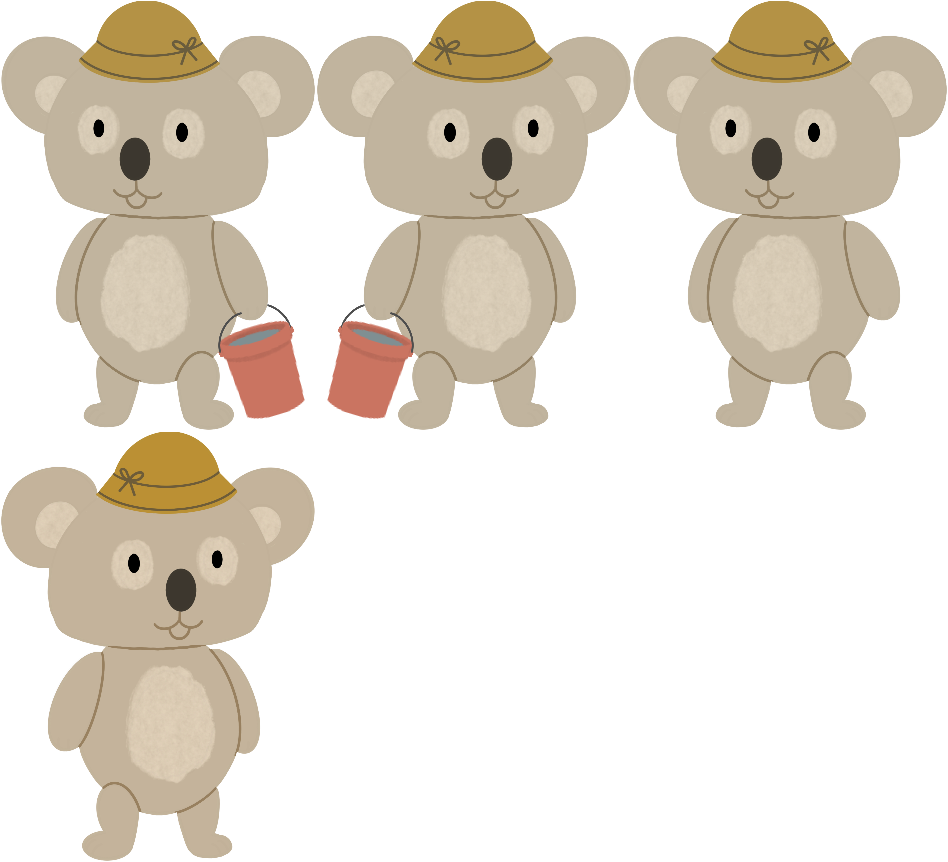
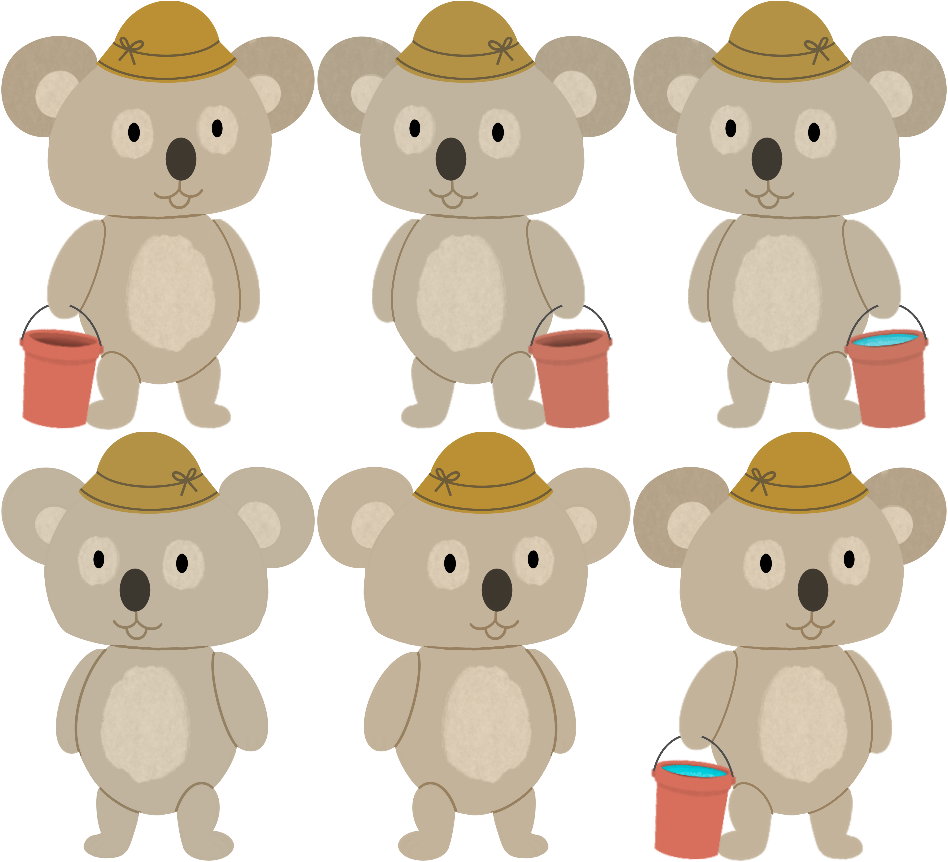
fixed char movement

diff --git a/components/player.js b/components/player.js
@@ -20,28 +20,16 @@ Crafty.c("Player", {
 		this.onHit("Bucket", function(collectBucket) {
 			collectBucket[0].obj.destroy();
 			var raindropSpawner = Crafty.e("RaindropSpawner");
-
-			var cloudController = Crafty.e("CloudController");
-			if (facing == "right") {
-				this.addComponent("bear_bucket_right");
-				this.removeComponent("bear_right");
-				this.w = 314 / 5;
-		        this.h = 429 / 5;
-			}
-			else if (facing == "left") {
-				this.addComponent("bear_bucket_left");
-				this.removeComponent("bear_left");
-				this.w = 314 / 5;
-		        this.h = 429 / 5;
-			}
 			hasBucket = true;
+			this.charImg();
 			Crafty.trigger("collectBucket");
 		});
 
 		this.onHit("Poo", function(collectPoo) {
 			collectPoo[0].obj.destroy();
-			Crafty.trigger("collectPoo");
 			inBucket.poo += 1;
+			this.charImg();
+			Crafty.trigger("collectPoo");
 		});
 
 		this.bind("CheckLanding", function(ground) {
@@ -53,32 +41,10 @@ Crafty.c("Player", {
 		this.bind("KeyDown", function(arrow) {
 				if (arrow.key == Crafty.keys.LEFT_ARROW) {
 					facing = "left";
-					if (hasBucket == true) {
-						this.addComponent("bear_bucket_left");
-						this.removeComponent("bear_bucket_right");
-						this.w = 314 / 5;
-						this.h = 429 / 5;
-					}
-					else {
-						this.addComponent("bear_left");
-						this.removeComponent("bear_right");
-						this.w = 314 / 5;
-						this.h = 429 / 5;
-					}
+					this.charImg();
 				} else if (arrow.key == Crafty.keys.RIGHT_ARROW) {
 					facing = "right";
-					if (hasBucket == true) {
-						this.addComponent("bear_bucket_right");
-						this.removeComponent("bear_bucket_left");
-						this.w = 314 / 5;
-						this.h = 429 / 5;
-					}
-					else {
-						this.addComponent("bear_right");
-						this.removeComponent("bear_left");
-						this.w = 314 / 5;
-						this.h = 429 / 5;
-					}
+					this.charImg();
 				}
 			});
 		this.bind("KeyDown", function(debugPlayer) {
@@ -92,12 +58,14 @@ Crafty.c("Player", {
 		this.onHit("Tree", function(emptyBucket) {;
 			if (inBucket.water > 0 || inBucket.poo > 0) {
 				Crafty.trigger("emptyBucket");
+				this.charImg();
 				healing_strength = DEFAULT_HEALING_STR; // RESET healing strength
 			}
 		});
 
 		this.onHit("Raindrop", function(collectWater) {
 			inBucket.water += 1;
+			this.charImg();
 			collectWater[0].obj.destroy();
 		})
     },
@@ -106,5 +74,51 @@ Crafty.c("Player", {
         this.x = x;
         this.y = y;
         return this;
-    }
+    },
+
+	charImg: function() {
+		//code controlling the char Sprite state
+		this.removeComponent("bear_bucket_right");
+		this.removeComponent("bear_bucket_full_left");
+		this.removeComponent("bear_bucket_left");
+		this.removeComponent("bear_bucket_full_right");
+		this.removeComponent("bear_right");
+		this.removeComponent("bear_left");
+		if (inBucket.water > 0 || inBucket.poo > 0) {
+			if (facing == "right") {
+				this.addComponent("bear_bucket_full_right");
+				this.w = 314 / 5;
+				this.h = 429 / 5;
+			}
+			else {
+				this.addComponent("bear_bucket_full_left");
+				this.w = 314 / 5;
+				this.h = 429 / 5;
+			}
+		}
+		else if (hasBucket == false) {
+			if (facing == "right") {
+				this.addComponent("bear_right");
+				this.w = 314 / 5;
+				this.h = 429 / 5;
+			}
+			else {
+				this.addComponent("bear_left");
+				this.w = 314 / 5;
+				this.h = 429 / 5;
+			}
+		}
+		else {
+			if (facing == "right") {
+				this.addComponent("bear_bucket_right");
+				this.w = 314 / 5;
+				this.h = 429 / 5;
+			}
+			else {
+				this.addComponent("bear_bucket_left");
+				this.w = 314 / 5;
+				this.h = 429 / 5;
+			}
+		}
+	}
 })

diff --git a/assets.js b/assets.js
@@ -47,10 +47,12 @@ var gameAssets = {
 			"tileh": 429,
 			"paddingAroundBorder": 1,
 			"map": {
-				"bear_right": [0, 1],
-				"bear_left": [2, 0],
-				"bear_bucket_right": [1, 0],
-				"bear_bucket_left": [0, 0],
+				"bear_right": [1,1],
+				"bear_left": [0,1],
+				"bear_bucket_right": [0,0],
+				"bear_bucket_left": [1,0],
+				"bear_bucket_full_right": [2,1],
+				"bear_bucket_full_left": [2,0],
 			},
 		},
 		"assets/images/raindrop.png": {
